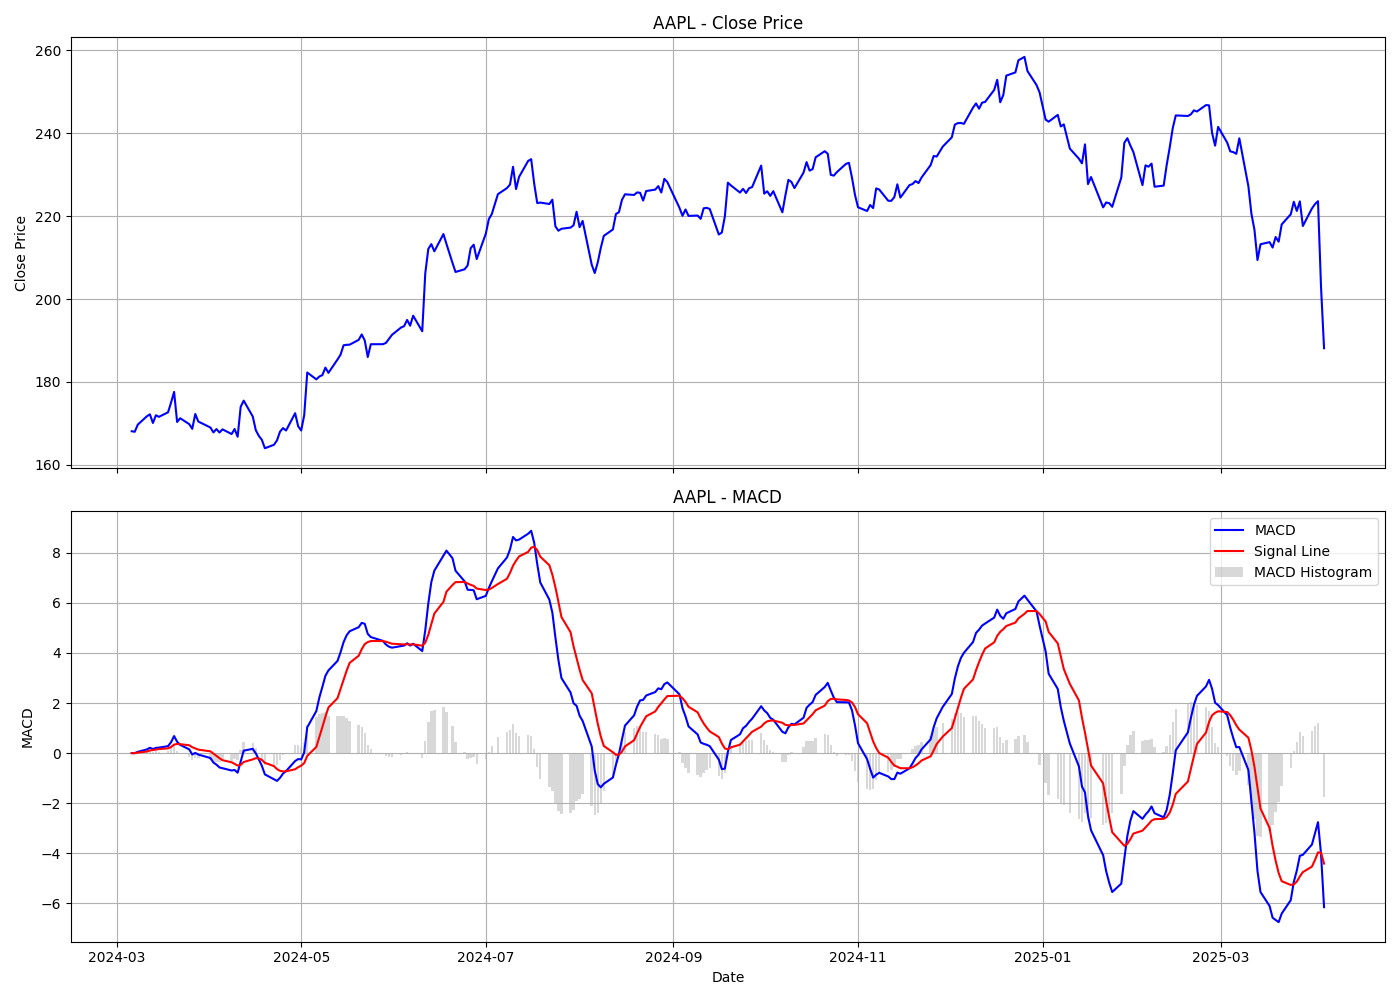
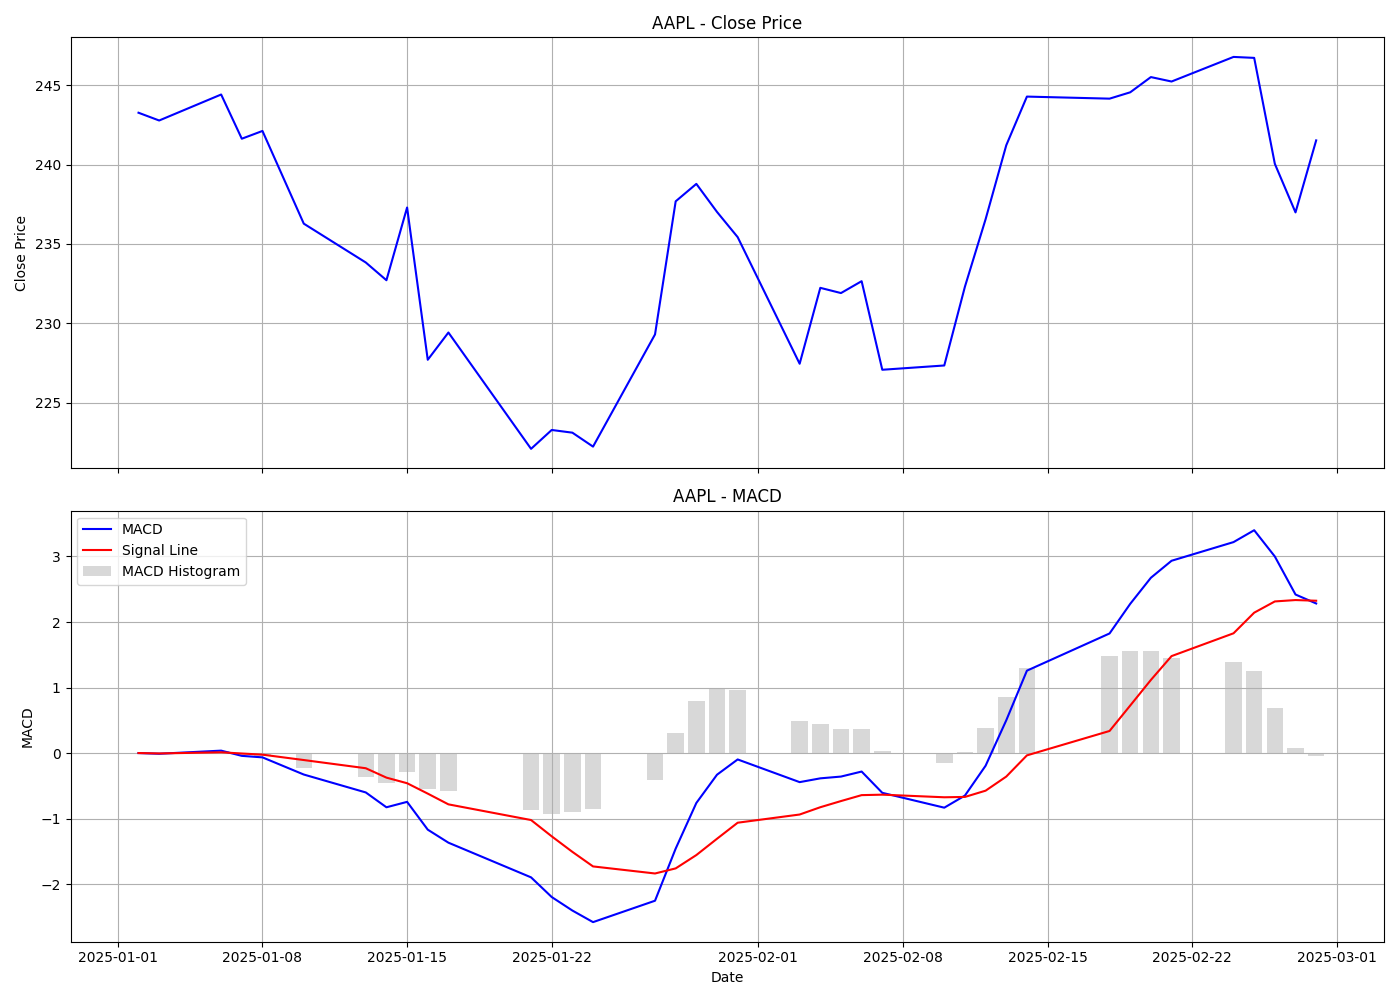
test

diff --git a/portfolio-management/scripts/technical_analysis.py b/portfolio-management/scripts/technical_analysis.py
@@ -5,7 +5,7 @@ import matplotlib.pyplot as plt
 import mplfinance as mpf
 
 
-def descargar_datos(ticker, start="2024-03-06", end="2025-04-06"):
+def descargar_datos(ticker, start="2025-01-01", end="2025-03-01"):
     """Descarga datos históricos de Yahoo Finance"""
     print(f"Descargando datos para {ticker} desde {start} hasta {end}...")
     datos = yf.download(ticker, start=start, end=end)
